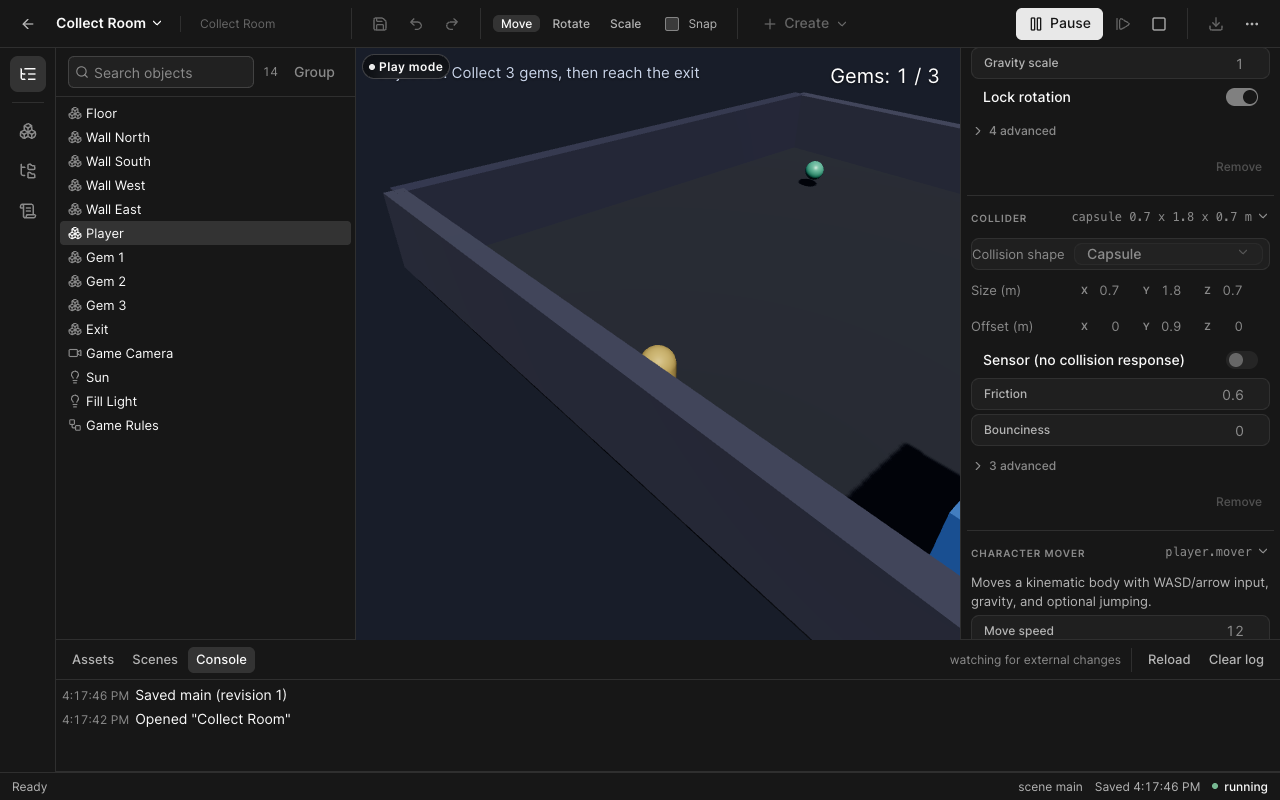
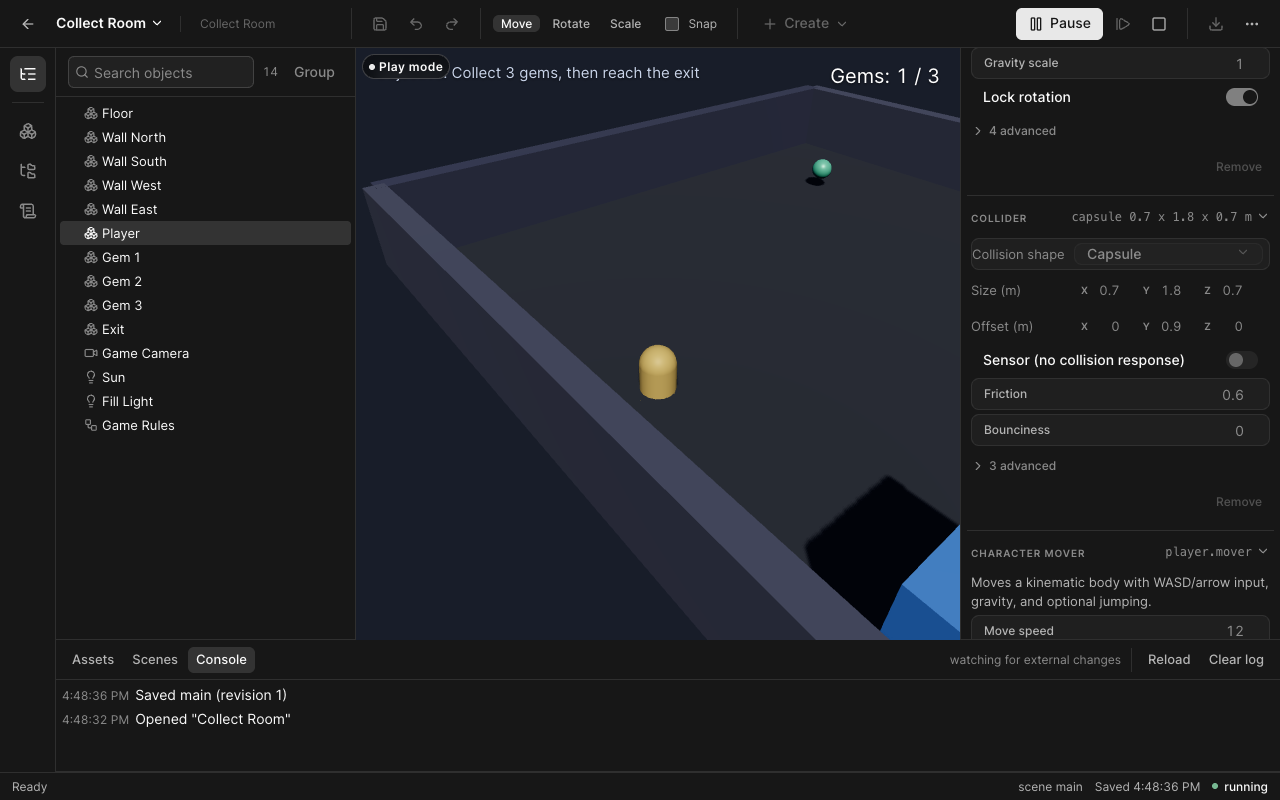
Make the hierarchy disclosure a real control
The tree drew a bullet for "has children" and promised an interaction it did
not have. It is a chevron that opens and closes its branch now, which is what
a tree is for once a scene is longer than a screen.

Collapsed parents are tracked rather than expanded ones, so the default is
open: a scene the user has not touched shows everything and only the branches
they closed are remembered. A search overrides the collapse state entirely —
hiding a match inside a closed branch would make the search look like it found
nothing, which is the one thing a search must not do.

Verified against a genuinely nested pair: 16 rows collapse to 15 and the child
returns on expand. Pinned there because all three demo scenes are flat — every
entity is a scene root — so there was nothing to collapse until one was
created. That is also why the chevrons are absent in the shipped scenes and
why this had to be tested rather than eyeballed.

Chasing that turned up a real engine rule worth recording: a physics body has
to be a scene root in this version, so an entity with a rigid body cannot be
reparented under another. The command layer rejects it with
`physics-body-not-root`, which is why a first attempt to nest the player
silently did nothing.

diff --git a/src/editor/panels/Hierarchy.tsx b/src/editor/panels/Hierarchy.tsx
@@ -182,8 +182,10 @@ const styles = stylex.create({
    * The empty slot that keeps a childless row's icon aligned with its parent's. Without it the
    * whole tree shifts one indent left on every leaf.
    */
+  /** The empty slot that keeps a leaf aligned with its parent's chevron. */
   treeDisclosureEmpty: {
-    width: '12px',
+    width: '16px',
+    height: '16px',
     flexShrink: 0,
   },
   /**
@@ -214,13 +216,30 @@ const styles = stylex.create({
    * glyph is the honest version of that, and it stops the tree from promising an interaction it
    * does not have.
    */
+  /**
+   * The disclosure: a real button that opens and closes its branch.
+   *
+   * The earlier version drew a bullet for "has children" and promised an interaction it did not
+   * have. A chevron that turns is the honest control, and collapsing a long scene is the thing a
+   * tree is for.
+   */
   treeDisclosure: {
     display: 'grid',
     placeItems: 'center',
-    width: control.iconSm,
-    height: control.iconSm,
+    width: '16px',
+    height: '16px',
+    padding: 0,
+    borderRadius: radius.sm,
+    backgroundColor: 'transparent',
+    borderWidth: 0,
+    borderStyle: 'none',
     color: color.dim,
     flexShrink: 0,
+    cursor: 'pointer',
+    ':hover': {
+      backgroundColor: color['wash-strong'],
+      color: color.text,
+    },
   },
   treeIconSelected: {
     color: color.text,
@@ -304,6 +323,14 @@ export function Hierarchy({ locked }: { locked: boolean }): JSX.Element {
   const [search, setSearch] = useState('');
   const [renaming, setRenaming] = useState<string | null>(null);
   const [hovered, setHovered] = useState<string | null>(null);
+  /**
+   * Parents whose children are hidden.
+   *
+   * Tracked as the *collapsed* set rather than the expanded one so the default is open: a scene the
+   * user has not touched shows everything, and only the branches they closed are remembered. The
+   * opposite default would greet every project with a column of shut rows.
+   */
+  const [collapsed, setCollapsed] = useState<ReadonlySet<string>>(new Set());
   const scene = snapshot.project && session.scene ? session.scene : null;
 
   const rows = useMemo<TreeRow[]>(() => {
@@ -323,12 +350,17 @@ export function Hierarchy({ locked }: { locked: boolean }): JSX.Element {
       for (const entity of byParent.get(parentId) ?? []) {
         const childrenMatch = needle.length > 0 && subtreeOf(scene, entity.id).some((child) => child.id !== entity.id && matches(child));
         if (matches(entity) || childrenMatch) result.push({ entity, depth });
+        /**
+         * A search overrides the collapse state: hiding a match inside a closed branch would make
+         * the search look like it found nothing, which is the one thing a search must not do.
+         */
+        if (needle.length === 0 && collapsed.has(entity.id)) continue;
         visit(entity.id, depth + 1);
       }
     };
     visit(null, 0);
     return result;
-  }, [scene, search]);
+  }, [scene, search, collapsed]);
 
   /**
    * Which entities are a parent of something.
@@ -446,9 +478,33 @@ export function Hierarchy({ locked }: { locked: boolean }): JSX.Element {
                * Everything before the name is a fixed-width slot, which is what keeps one
                * alignment line down the tree however deep a node sits.
                */}
-              <span {...stylex.props(styles.treeDisclosure)} aria-hidden="true">
-                {hasChildren.has(entity.id) ? <ChevronRight size={control.iconSm} /> : null}
-              </span>
+              {hasChildren.has(entity.id) ? (
+                <button
+                  {...stylex.props(styles.treeDisclosure)}
+                  type="button"
+                  aria-label={collapsed.has(entity.id) ? `Expand ${entity.name}` : `Collapse ${entity.name}`}
+                  aria-expanded={!collapsed.has(entity.id)}
+                  onClick={(event) => {
+                    event.stopPropagation();
+                    setCollapsed((current) => {
+                      const next = new Set(current);
+                      if (next.has(entity.id)) next.delete(entity.id);
+                      else next.add(entity.id);
+                      return next;
+                    });
+                  }}
+                >
+                  <ChevronRight
+                    size={control.iconSm}
+                    style={{
+                      transform: collapsed.has(entity.id) ? 'none' : 'rotate(90deg)',
+                      transition: 'transform 120ms ease',
+                    }}
+                  />
+                </button>
+              ) : (
+                <span {...stylex.props(styles.treeDisclosureEmpty)} aria-hidden="true" />
+              )}
               <span {...stylex.props(styles.treeIcon, isSelected && styles.treeIconSelected)}>
                 <EntityIcon size={control.iconSm} />
               </span>
